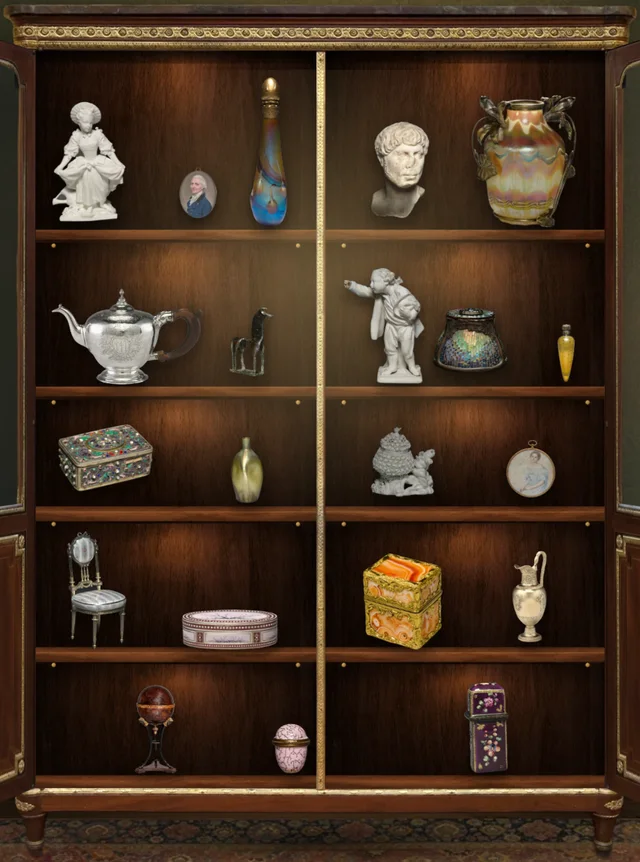
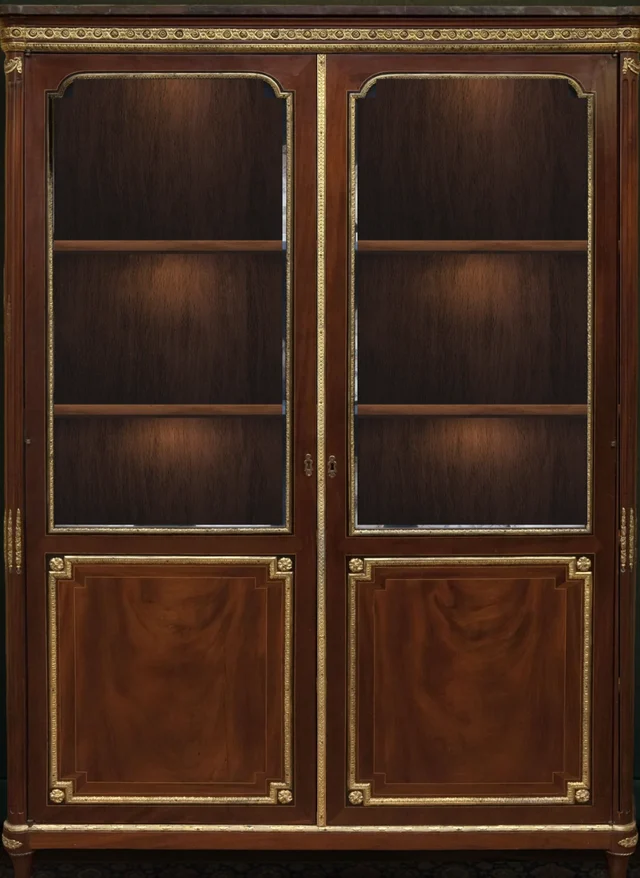
Curio-2: closed cabinet plate, cabinet story in the hero, category-over-question rows
Claude-Session: https://claude.ai/code/session_011WjVxaaNa46jy5F6Kjsk2Z

diff --git a/work/preview/curio-2/index.html b/work/preview/curio-2/index.html
@@ -47,14 +47,14 @@ h3{font-size:clamp(22px,2vw,28px);line-height:1.1}
 .hero{position:relative;overflow:hidden;padding:clamp(40px,5vw,72px) var(--pad) 0;max-width:1520px;margin:0 auto;display:grid;grid-template-columns:7fr 5fr;gap:clamp(32px,5vw,90px);align-items:end}
 .hero::before{content:"";position:absolute;right:-10%;top:10%;width:60%;height:90%;background:radial-gradient(ellipse at 50% 60%,rgba(216,176,106,.28),rgba(216,176,106,.06) 50%,transparent 72%);pointer-events:none}
 .hero-copy{position:relative;padding-bottom:clamp(40px,5vw,72px)}
-.hero h1{font-size:clamp(40px,5.2vw,84px);font-weight:300;max-width:14ch;margin-top:12px}
+.hero h1{font-size:clamp(38px,4.6vw,76px);font-weight:300;max-width:14ch;margin-top:12px}
 .hero .sub{margin-top:22px;font-size:clamp(18px,1.4vw,22px);max-width:30em;color:rgba(241,235,221,.85)}
-.hero .why{margin-top:22px;padding-top:16px;border-top:1px solid var(--rule-l);max-width:30em;font-size:17.5px;color:rgba(241,235,221,.78)}
+.hero .why{margin-top:22px;padding-top:16px;border-top:1px solid var(--rule-l);max-width:32em;font-size:17px;line-height:1.55;color:rgba(241,235,221,.8)}
 .hero .why .k{display:block;margin-bottom:6px}
 .hero .acts{margin-top:28px;display:flex;gap:26px;flex-wrap:wrap}
 .hero .acts .u{font-size:16px}
 .hero .cab{position:relative;margin:0;align-self:end;justify-self:center}
-.hero .cab img{width:min(100%,470px);height:auto;display:block;filter:drop-shadow(0 30px 40px rgba(0,0,0,.5))}
+.hero .cab img{width:min(100%,440px);height:auto;display:block;box-shadow:0 40px 60px rgba(0,0,0,.55),0 0 0 1px rgba(216,176,106,.45),0 0 0 7px var(--green),0 0 0 8px rgba(216,176,106,.25)}
 .hero .cab figcaption{font-family:var(--fd);font-size:13px;line-height:1.4;color:rgba(241,235,221,.7);max-width:30ch;margin:18px 0 28px}
 .trust{background:var(--cream-2);color:var(--ink)}
 .trust .wrap{display:grid;grid-template-columns:repeat(4,1fr)}
@@ -70,12 +70,13 @@ h3{font-size:clamp(22px,2vw,28px);line-height:1.1}
 .index .sticky img{aspect-ratio:4/5;object-fit:cover;width:100%}
 .index .sticky figcaption{font-size:14px;color:var(--ink-2);margin-top:10px}
 .qs{list-style:none;border-top:1px solid var(--ink)}
-.qs li a{display:grid;grid-template-columns:54px 1fr auto;gap:22px;align-items:baseline;padding:22px 0;border-bottom:1px solid var(--rule);text-decoration:none}
+.qs li a{display:grid;grid-template-columns:54px 1fr;gap:22px;align-items:start;padding:22px 0;border-bottom:1px solid var(--rule);text-decoration:none}
+.qs .qt{display:grid;gap:6px}
 .qs li a:hover .q{color:var(--brass)}
 .qs .n{font-family:var(--fd);font-size:13px;color:var(--brass);letter-spacing:.1em}
 .qs .q{font-size:clamp(22px,2.1vw,32px);line-height:1.15;font-weight:300}
-.qs .t{font-family:var(--fd);font-size:13.5px;letter-spacing:.06em;text-transform:uppercase;color:var(--ink-2);white-space:nowrap}
-.qs li.m a{grid-template-columns:54px 1fr auto}
+.qs .t{font-family:var(--fd);font-size:12.5px;letter-spacing:.14em;text-transform:uppercase;color:var(--brass);font-weight:500}
+.qs li.m a{grid-template-columns:54px 1fr auto;align-items:baseline}
 .qs li.m .q{font-family:var(--fd);font-size:clamp(18px,1.4vw,21px);font-weight:400;white-space:nowrap}
 .qs li.m .t{font-family:var(--fs);font-size:17px;text-transform:none;letter-spacing:0;white-space:normal;text-align:right;color:var(--ink-2)}
 .qs .lbl{padding:34px 0 10px}
@@ -166,7 +167,7 @@ footer nav a:hover{color:var(--brass-l)}
   .hero .cab img{width:min(100%,300px)}
   .hero h1{font-size:clamp(38px,11.5vw,54px)}
   .qs li a,.qs li.m a{grid-template-columns:40px 1fr;gap:12px 16px}
-  .qs .t{grid-column:2;white-space:normal}
+  .qs li.m .t{grid-column:2;white-space:normal;text-align:left}
   
   .team .row{grid-template-columns:1fr}
   .team img{max-width:220px}
@@ -185,13 +186,13 @@ footer nav a:hover{color:var(--brass-l)}
   <div class="hero-copy">
     <p class="k">Denver · In person and online across Colorado</p>
     <h1>Curio is a small therapy practice for people who look fine and aren't.</h1>
-    <p class="sub">Two therapists. One office on Harlan Street. We work with adults on anxiety, perfectionism, the big life changes, and the old things that still get in the way, with EMDR, sand tray, and the kind of therapy that goes somewhere.</p>
-    <p class="why"><span class="k">About the name</span>Curio, from the Latin <em>curiosus</em>: wanting to know more. A curio is a small thing worth picking up and looking at again. So is the question you keep not asking.</p>
+    <p class="sub">Two therapists. One office on Harlan Street. We work with adults on anxiety, perfectionism, the big life changes, and the old things that still get in the way.</p>
+    <p class="why"><span class="k">About the name</span>A curio cabinet holds curiosities: the things closest to us, kept behind glass. Sometimes it's where we put something away, meaning to come back to it, and years go by. Then one day it gets opened, and everything in it is exactly as heavy as the day we shut the door. That's what this practice is for. Taking things out, dusting them off, and looking at them again with someone in the room.</p>
     <p class="acts"><a class="u" href="#contact">Book a free 15-minute call</a><a class="u" href="#questions">See what people come in with</a></p>
   </div>
   <figure class="cab">
-    <img src="img/cabinet.webp" alt="A tall wooden curio cabinet with its glass doors open, every shelf lined with small objects" width="640" height="863" fetchpriority="high">
-    <figcaption>Everything on these shelves is a question somebody walked in with. The list is just below.</figcaption>
+    <img src="img/cabinet.webp" alt="A tall wooden curio cabinet with its glass doors closed" width="640" height="882" fetchpriority="high">
+    <figcaption>Curio, from the Latin <em>curiosus</em>: wanting to know more. What's behind the doors is below.</figcaption>
   </figure>
 </section>
 <div class="trust">
@@ -210,20 +211,20 @@ footer nav a:hover{color:var(--brass-l)}
 <section class="wrap index" id="questions">
   <div class="sticky">
     <p class="k">What we help with</p>
-    <h2>Nobody walks in with a diagnosis.</h2>
-    <p>They walk in with a question they've been turning over for a while. If one of these is yours, you're in the right place. If it's close but not quite, call anyway. We'll tell you.</p>
+    <h2>What's behind the doors.</h2>
+    <p>Nobody walks in with a diagnosis. They walk in with something they put away a long time ago and a question they've been turning over since. These are the ones we hear most. If yours is close but not quite, call anyway. We'll tell you.</p>
     <figure>
       <img src="img/window.webp" alt="Léon Cogniet, The Artist in His Room at the Villa Medici, 1817: a young man reads a letter beside an open window" width="740" height="900" loading="lazy">
       <figcaption>Cogniet, 1817. One of the paintings from the Cleveland Museum of Art open access collection that run through the site.</figcaption>
     </figure>
   </div>
   <ul class="qs">
-    <li><a href="#contact"><span class="n">01</span><span class="q">Why can't I relax when everything is fine?</span><span class="t">Anxiety and stress</span></a></li>
-    <li><a href="#contact"><span class="n">02</span><span class="q">Why is good never good enough?</span><span class="t">Perfectionism</span></a></li>
-    <li><a href="#contact"><span class="n">03</span><span class="q">Who am I after the divorce, the move, the last kid leaving?</span><span class="t">Life transitions</span></a></li>
-    <li><a href="#contact"><span class="n">04</span><span class="q">Was it bad enough to count as trauma?</span><span class="t">Trauma and PTSD</span></a></li>
-    <li><a href="#contact"><span class="n">05</span><span class="q">Why do I keep ending up in the same argument?</span><span class="t">Relationships and self-worth</span></a></li>
-    <li><a href="#contact"><span class="n">06</span><span class="q">Why does everything feel so heavy?</span><span class="t">Depression</span></a></li>
+    <li><a href="#contact"><span class="n">01</span><span class="qt"><span class="t">Anxiety and stress</span><span class="q">Why can't I relax when everything is fine?</span></span></a></li>
+    <li><a href="#contact"><span class="n">02</span><span class="qt"><span class="t">Perfectionism</span><span class="q">Why is good never good enough?</span></span></a></li>
+    <li><a href="#contact"><span class="n">03</span><span class="qt"><span class="t">Life transitions</span><span class="q">Who am I after the divorce, the move, the last kid leaving?</span></span></a></li>
+    <li><a href="#contact"><span class="n">04</span><span class="qt"><span class="t">Trauma and PTSD</span><span class="q">Was it bad enough to count as trauma?</span></span></a></li>
+    <li><a href="#contact"><span class="n">05</span><span class="qt"><span class="t">Relationships and self-worth</span><span class="q">Why do I keep ending up in the same argument?</span></span></a></li>
+    <li><a href="#contact"><span class="n">06</span><span class="qt"><span class="t">Depression</span><span class="q">Why does everything feel so heavy?</span></span></a></li>
     <li class="lbl"><span class="k">How we work</span></li>
     <li class="m"><a href="#contact"><span class="n">07</span><span class="q">EMDR therapy</span><span class="t">A way through a memory without retelling every detail</span></a></li>
     <li class="m"><a href="#contact"><span class="n">08</span><span class="q">EMDR intensives</span><span class="t">Consecutive days with Sarah, alongside your own therapist</span></a></li>
